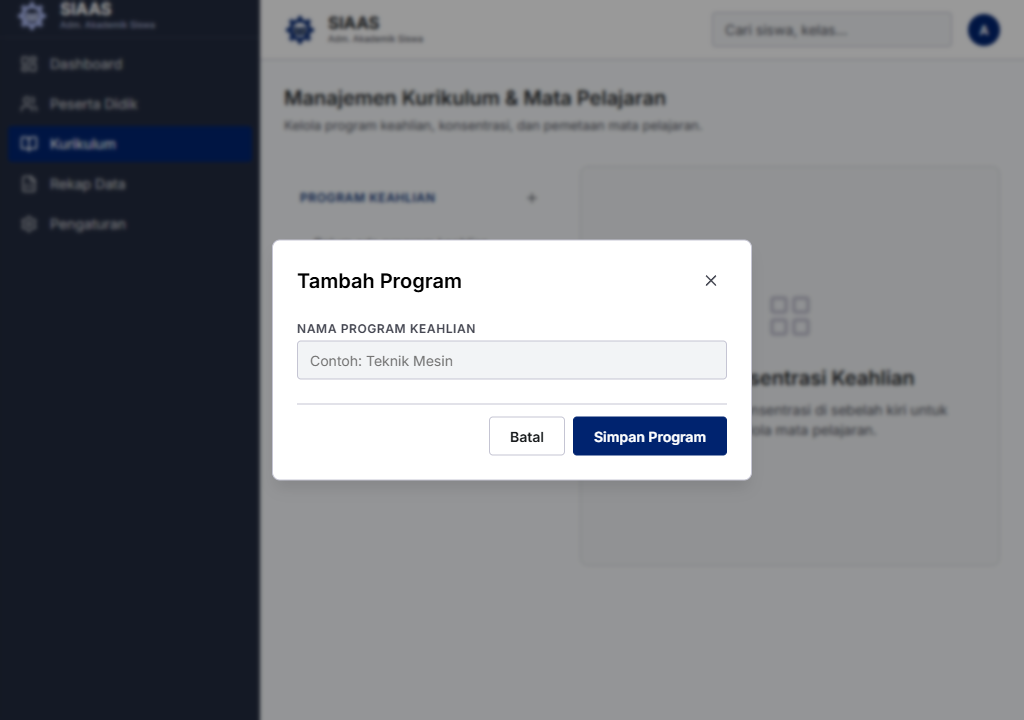
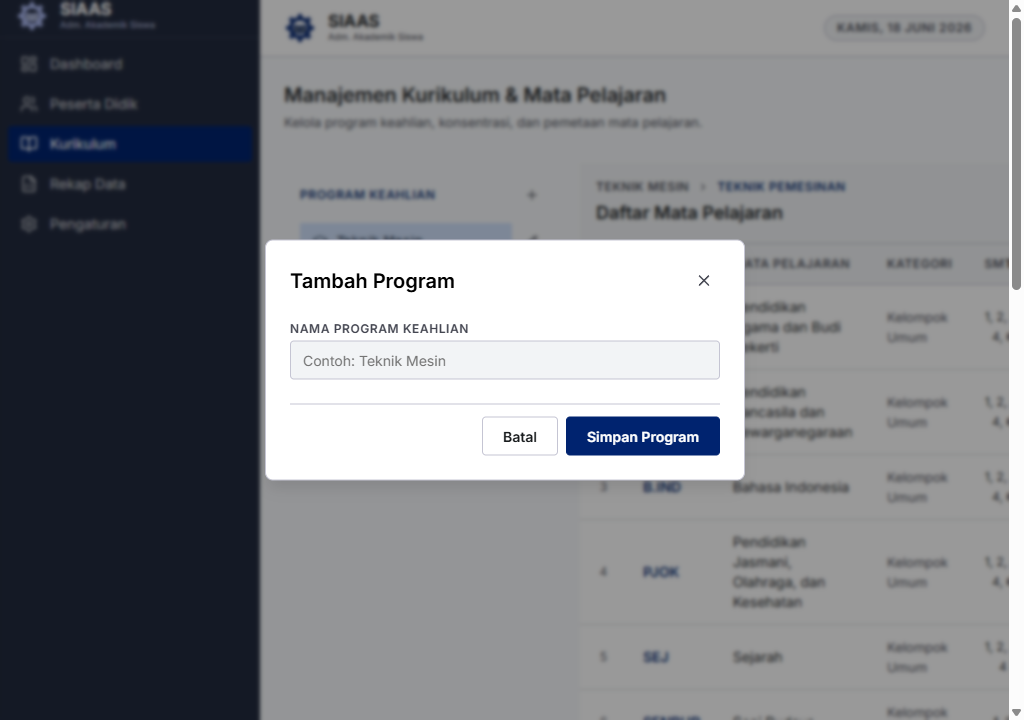
feat: implement global application shell layout and design system tokens

diff --git a/src/app/globals.css b/src/app/globals.css
@@ -313,52 +313,16 @@ body {
   gap: var(--gutter);
 }
 
-.search-input {
-  font-family: var(--font-family);
-  font-size: var(--body-md);
-  padding: calc(var(--spacing-base) * 2) calc(var(--spacing-base) * 3);
-  border: 1px solid var(--outline-variant);
-  border-radius: var(--radius-default);
-  background: var(--surface-container-low);
-  color: var(--on-surface);
-  width: 240px;
-  max-width: 100%;
-  outline: none;
-  transition: border-color 0.15s ease, width 0.2s ease;
-}
-
-.search-input:focus {
-  border-color: var(--primary);
-  width: 300px;
-}
-
-.search-input::placeholder {
-  color: var(--on-surface-variant);
-  opacity: 1;
-}
-
-.avatar {
-  width: 32px;
-  height: 32px;
-  border-radius: var(--radius-full);
-  background: var(--primary);
-  color: var(--on-primary);
+.header-status {
   display: flex;
   align-items: center;
-  justify-content: center;
-  font-size: var(--body-sm);
-  font-weight: 600;
-  flex-shrink: 0;
-  position: relative;
+  gap: calc(var(--spacing-base) * 2);
+  color: var(--on-surface-variant);
+  background: var(--surface-container-low);
+  padding: calc(var(--spacing-base) * 1) calc(var(--spacing-base) * 3);
+  border-radius: var(--radius-full);
+  border: 1px solid var(--outline-variant);
 }
-
-.avatar::after {
-  content: "";
-  position: absolute;
-  inset: -6px;
-  cursor: pointer;
-}
-
 /* ── Buttons ── */
 
 .btn {

diff --git a/src/app/layout.tsx b/src/app/layout.tsx
@@ -4,6 +4,7 @@ import "./globals.css";
 import { Sidebar } from "@/components/sidebar";
 import { Logo } from "@/components/logo";
 import { MobileNav } from "@/components/mobile-nav";
+import { HeaderStatus } from "@/components/header-status";
 
 const inter = Inter({
   subsets: ["latin"],
@@ -42,14 +43,7 @@ export default function RootLayout({
                 <Logo variant="full" theme="light" height={32} />
               </div>
               <div className="topbar-right">
-                <label htmlFor="global-search" className="sr-only">Cari siswa, kelas</label>
-                <input
-                  id="global-search"
-                  type="search"
-                  placeholder="Cari siswa, kelas..."
-                  className="search-input"
-                />
-                <div className="avatar" title="Admin" aria-hidden="true">A</div>
+                <HeaderStatus />
               </div>
             </header>
 

diff --git a/src/components/header-status.tsx b/src/components/header-status.tsx
@@ -1,0 +1,34 @@
+"use client";
+
+import { useState, useEffect } from "react";
+
+export function HeaderStatus() {
+  const [mounted, setMounted] = useState(false);
+  const [dateStr, setDateStr] = useState("");
+
+  useEffect(() => {
+    setMounted(true);
+    const now = new Date();
+    const formatted = new Intl.DateTimeFormat("id-ID", {
+      weekday: "long",
+      day: "numeric",
+      month: "long",
+      year: "numeric",
+    }).format(now);
+    setDateStr(formatted);
+  }, []);
+
+  if (!mounted) {
+    return (
+      <div className="header-status skeleton" style={{ width: "160px", height: "28px" }}>
+        <span className="label-md" style={{ opacity: 0 }}>Memuat...</span>
+      </div>
+    );
+  }
+
+  return (
+    <div className="header-status">
+      <span className="label-md">{dateStr}</span>
+    </div>
+  );
+}
